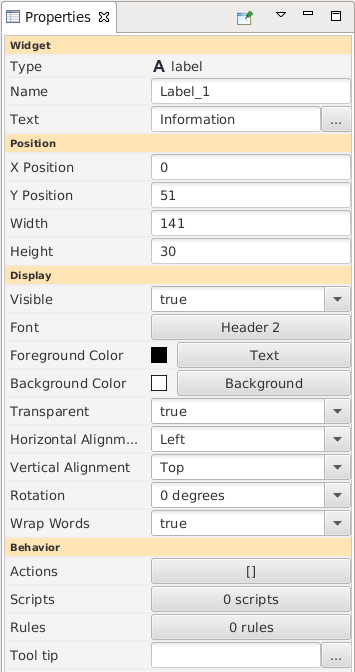
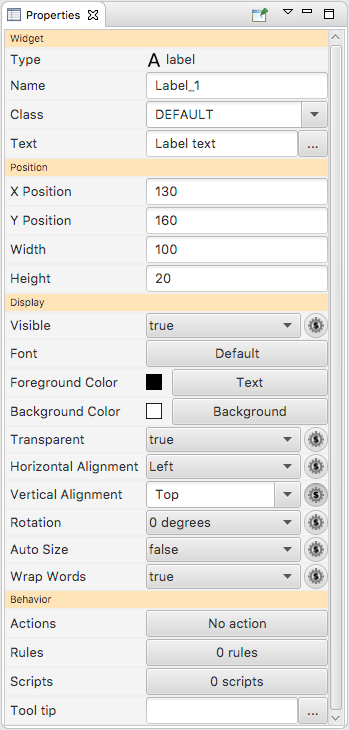
Updated help.

diff --git a/org.csstudio.display.builder.editor.rcp/doc/display.builder.html b/org.csstudio.display.builder.editor.rcp/doc/display.builder.html
@@ -889,6 +889,15 @@ Example:
 <pre>states[0].value</pre>
 <pre>states[1].color</pre>
 
+
+<h3>Boolean and Enumeration Properties</h3>
+
+Boolean and enumeration properties have a combo-box control to select the valid value. In case 
+the property value must contain one or more macros, the <b>Edit Macros</b> button close to the 
+combo-box must be pressed, and the combo-box becomes editable and ready to contain the needed 
+"macroized" value string (see <b>Vertical Alignment</b> property in the figure above).
+
+
 <!-- ====================================================== -->
 <h2><a name="rules">Rules</a></h2>
 <!-- ====================================================== -->
